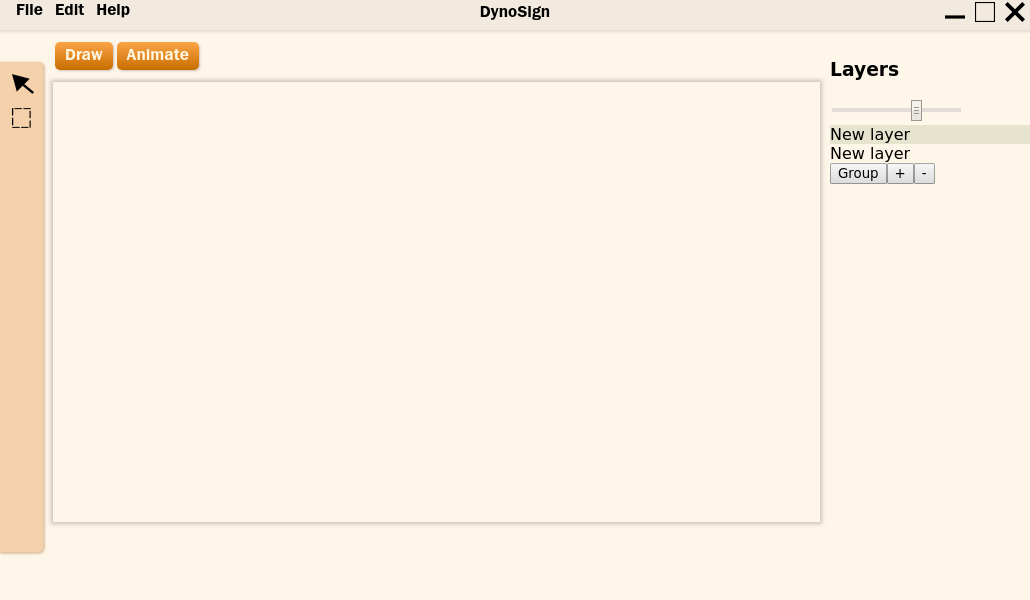
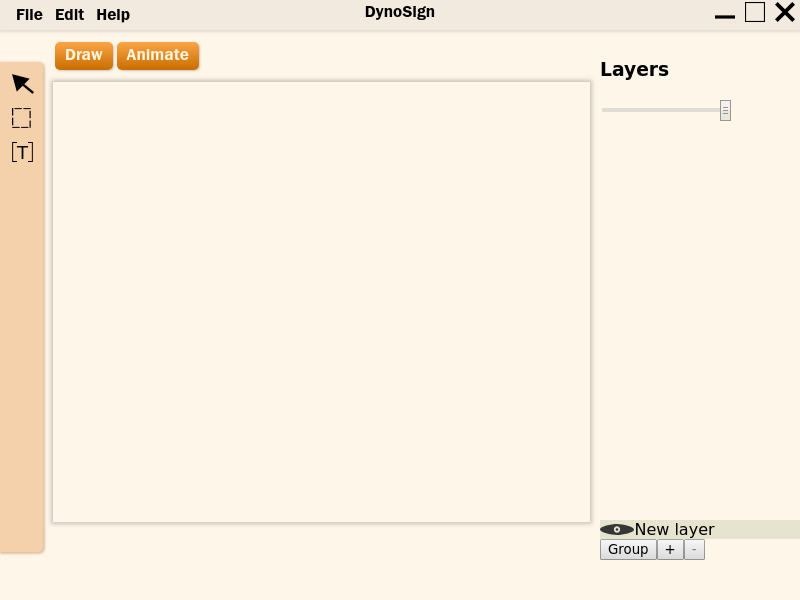
Added text button

diff --git a/javascripts/LeftBar/LeftBar.jsx b/javascripts/LeftBar/LeftBar.jsx
@@ -1,6 +1,7 @@
 import React, { Component } from "react";
 import move_tool from "./move_tool.svg"
 import select_tool from "./select_tool.svg"
+import text_tool from "./text_tool.svg";
 import "./LeftBar.scss";
 import { connect } from 'react-redux'
 import {changeMouseType} from "../actions";
@@ -18,6 +19,7 @@ class LeftBar extends Component {
             <div id='leftBar'>
                 <img onClick={() => this.changeCursor('default')} src={move_tool} className='toolsLeftPanel' />  
                 <img onClick={() => this.changeCursor('select')} src={select_tool} className='toolsLeftPanel' />              
+                <img onClick={() => this.changeCursor('text')} src={text_tool} className='toolsLeftPanel' />              
             </div>
         )
     }

diff --git a/javascripts/MainArea/MainArea.jsx b/javascripts/MainArea/MainArea.jsx
@@ -96,6 +96,9 @@ class MainArea extends React.Component {
             case "select":
                 iconType = 'crosshair';
                 break;
+            case "text":
+                iconType = 'text';
+                break;
         }
         return (
             <div id='mainArea'>
